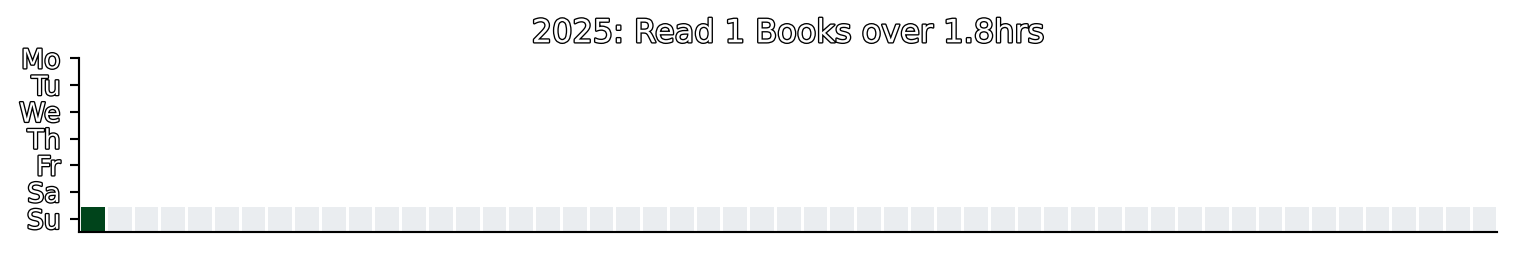
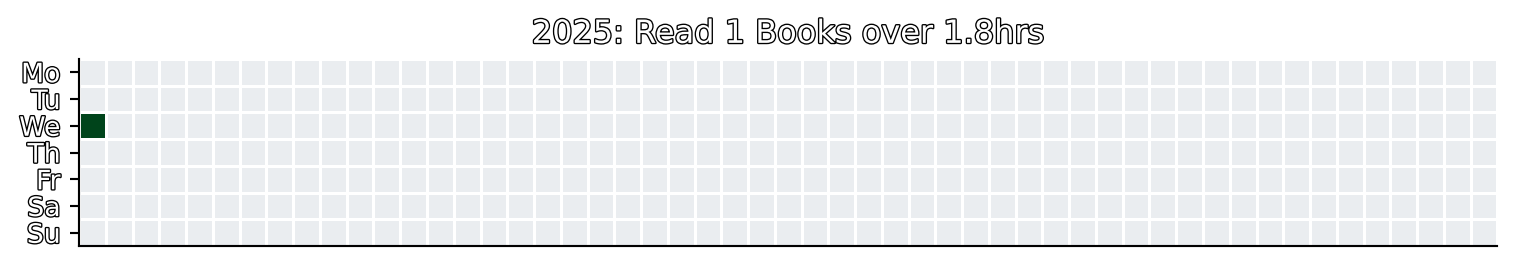
Fix plots for start of the year

Changed region(s): [[0.341, 0.0551, 0.7131, 0.1929], [0.0, 0.689, 0.9921, 0.937], [0.0, 0.1929, 0.093, 0.689]]

diff --git a/docs/books/index.html b/docs/books/index.html
@@ -237,7 +237,7 @@ Figure&nbsp;1: Reading done for all books recorded (past years)
 <div id="fig-total-reading-time-current-year" class="quarto-figure quarto-figure-center quarto-float anchored">
 <figure class="quarto-float quarto-float-fig figure">
 <div aria-describedby="fig-total-reading-time-current-year-caption-0ceaefa1-69ba-4598-a22c-09a6ac19f8ca">
-<img src="index_files/figure-html/fig-total-reading-time-current-year-output-1.png" width="758" height="127" class="figure-img">
+<img src="index_files/figure-html/fig-total-reading-time-current-year-output-1.png" width="758" height="134" class="figure-img">
 </div>
 <figcaption class="quarto-float-caption-bottom quarto-float-caption quarto-float-fig" id="fig-total-reading-time-current-year-caption-0ceaefa1-69ba-4598-a22c-09a6ac19f8ca">
 Figure&nbsp;2: Reading done for all books recorded in current year

diff --git a/books/_help_reading.py b/books/_help_reading.py
@@ -99,18 +99,23 @@ def get_year_data(data, year=2024):
     ]
 
     # Add in 'dummy' weeks to fill up the gap
-    df_temp = pd.DataFrame(columns=['weekday', 'week', 'activity'])
-    df_temp.week = np.arange(0,52)
-    df_orig = pd.DataFrame(columns=df_temp.columns)
+    # Create a date range for the entire year
+    date_range = pd.date_range(start=f'{year}-01-01', end=f'{year}-12-31')
+    # Create a DataFrame with all dates, weeks, and weekdays (0 activity)
+    df_full = pd.DataFrame({'date': date_range})
+    df_full['week'] = df_full['date'].dt.isocalendar().week -1 #isocalendar is more accurate
+    df_full['weekday'] = df_full['date'].dt.weekday
+
+    df_orig = pd.DataFrame(columns=['weekday', 'week', 'activity'])
     # Offset by one for display (starts at zero)
     df_orig['week'] = df_yr.start.dt.strftime('%W').astype(int) - 1
     # Monday is the first day of the week now (starts at zero)
     df_orig['weekday'] = (df_yr.start.dt.strftime('%w').astype(int) - 1) % 7
     df_orig['activity'] = df_yr.duration_frac
     df_new = pd.concat([
-        df_temp, 
+        df_full, 
         df_orig,
-    ])
+    ]).fillna(0)
 
     # Reshape the data and plot it
     df_pivot = df_new.pivot_table(
